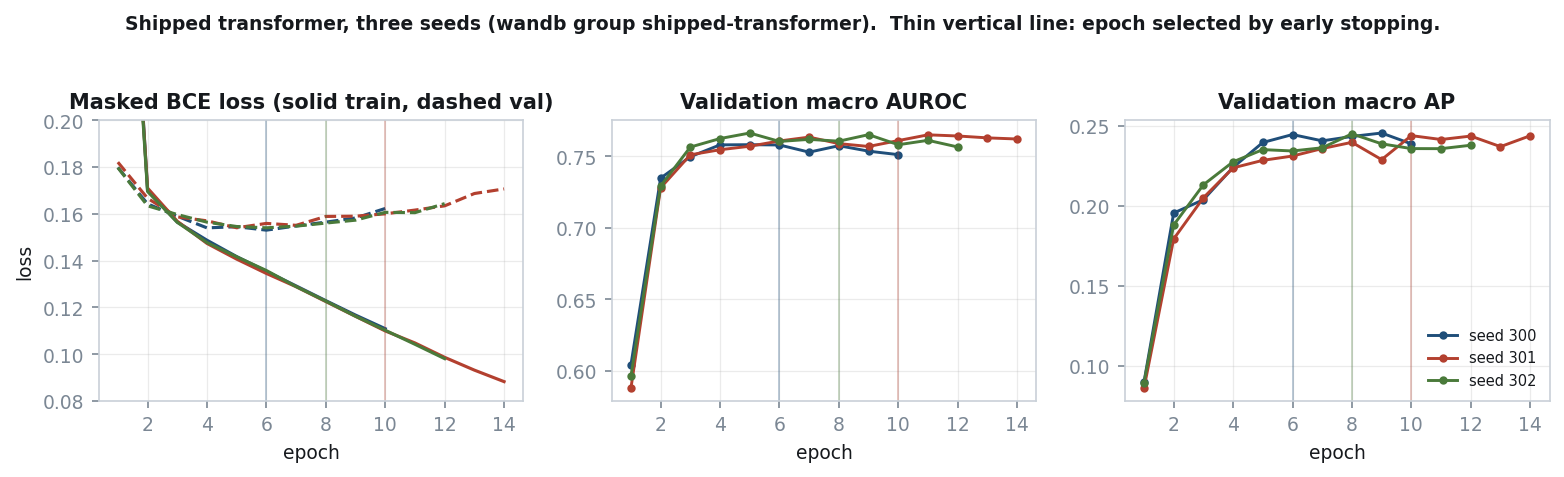
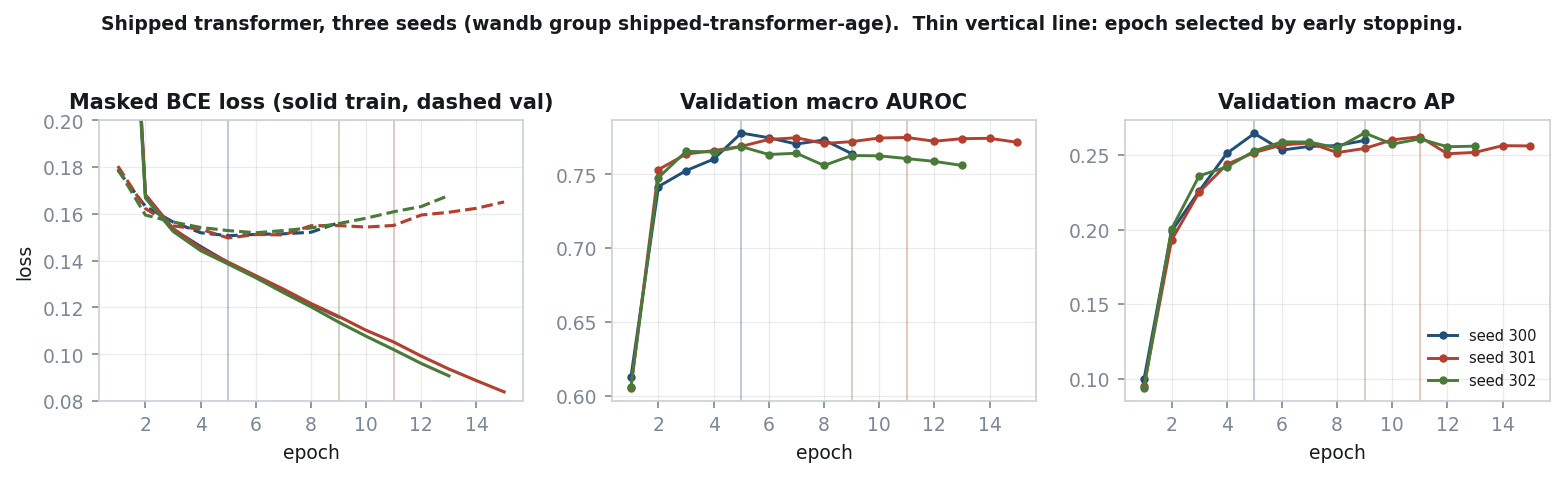
Training curves and notes point at the age model's wandb runs (exact reproduction)

diff --git a/src/figures.py b/src/figures.py
@@ -148,7 +148,7 @@ def fig_per_code() -> None:
 # `src.log_shipped_run` (which verified the refit reproduces the shipped matrix).
 # Their entries are the only ones for these run ids that carry `val_loss`: the
 # field was added for that refit, so filtering on it excludes the original fit.
-SHIPPED_TX_RUNS = ("P4_seed300_90b58acf", "P4_seed301_4f9084f7", "P4_seed302_ae43dae1")
+SHIPPED_TX_RUNS = ("P4_seed300_5221b458", "P4_seed301_07316ad3", "P4_seed302_08149c73")
 
 
 def fig_training_curves() -> None:
@@ -162,6 +162,11 @@ def fig_training_curves() -> None:
             if line.strip()]
     df = pd.DataFrame([r for r in rows
                        if r.get("run") in SHIPPED_TX_RUNS and "val_loss" in r])
+    # The final fit and the wandb refit log under the same run id (same config,
+    # same seed; the refit is verified bit-identical). Keep one row per epoch --
+    # the latest -- so two runs can never be drawn as one zig-zagging line.
+    if not df.empty:
+        df = df.drop_duplicates(["run", "epoch"], keep="last")
     if df.empty:
         print("  training_curves: no logged refit in outputs/metrics.jsonl -- skipped")
         return
@@ -195,7 +200,7 @@ def fig_training_curves() -> None:
         ax.set_xlabel("epoch")
         ax.xaxis.set_major_locator(matplotlib.ticker.MaxNLocator(integer=True))
         ax.grid(alpha=0.25, lw=0.6)
-    fig.suptitle("Shipped transformer, three seeds (wandb group shipped-transformer)."
+    fig.suptitle("Shipped transformer, three seeds (wandb group shipped-transformer-age)."
                  "  Thin vertical line: epoch selected by early stopping.",
                  fontsize=9, fontweight="600", y=1.04)
     fig.tight_layout()
